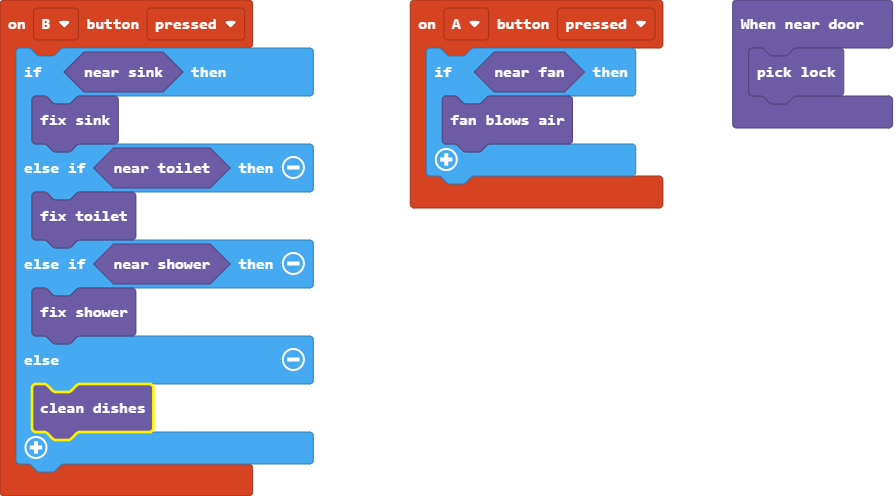
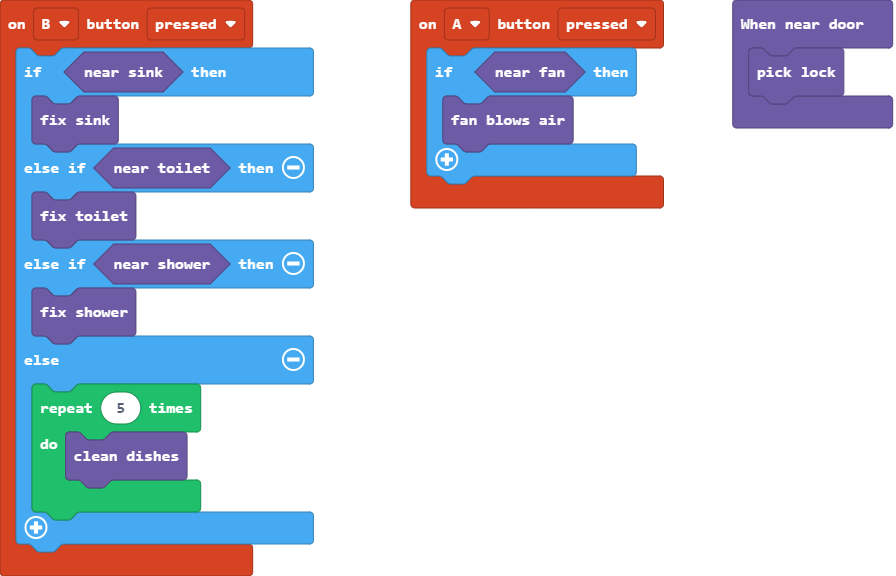
added kitchen to tutorial

diff --git a/extension.ts b/extension.ts
@@ -6,11 +6,13 @@ namespace SpriteKind {
     export const BrokenAppliance = SpriteKind.create()
 }
 
+//fan wind overlaps dustbunny
 sprites.onOverlap(SpriteKind.Projectile, SpriteKind.DustBunny, function (sprite, otherSprite) {
     otherSprite.setVelocity(0, 50)
     sprite.destroy()
 })
 
+//player overlaps dustbunny
 sprites.onOverlap(SpriteKind.Player, SpriteKind.DustBunny, function (sprite, otherSprite) {
     dustBunny.startEffect(effects.clouds)
     game.showLongText("Too much dust!", DialogLayout.Bottom)
@@ -18,6 +20,7 @@ sprites.onOverlap(SpriteKind.Player, SpriteKind.DustBunny, function (sprite, oth
     game.over(false)
 })
 
+//player moves from bedroom (room 1) to offic (room 2)
 scene.onOverlapTile(SpriteKind.Player, myTiles.tile11, function (sprite, location) {
     tiles.placeOnTile(thePlayer, tiles.getTileLocation(17, 5))
     createDustBunnies()
@@ -71,6 +74,8 @@ function createDustBunnies () {
     }
     tiles.replaceAllTiles(myTiles.tile10, myTiles.tile1)
 }
+
+//player moves from office (room 2) to bathroom (room 3)
 scene.onOverlapTile(SpriteKind.Player, myTiles.tile13, function (sprite, location) {
     tiles.placeOnTile(thePlayer, tiles.getTileLocation(33, 5))
     hoc.near_fan()
@@ -79,6 +84,7 @@ scene.onOverlapTile(SpriteKind.Player, myTiles.tile13, function (sprite, locatio
     showerIsFixed = false
 })
 
+//places mold on green tiles
 scene.onOverlapTile(SpriteKind.Player, myTiles.tile14, function (sprite, location) {
     tiles.placeOnTile(thePlayer, tiles.getTileLocation(48, 5))
     moldyAir()
@@ -109,10 +115,14 @@ function moldyAir () {
     }
     tiles.replaceAllTiles(myTiles.tile30, sprites.dungeon.floorLight0)
 }
+
+//makes mold bounce of wall
 scene.onHitWall(SpriteKind.Mold, function(sprite: Sprite, location: tiles.Location) {
     sprite.setVelocity(randint(-50, 50), randint(-50, 50))
     sprite.startEffect(effects.spray, 100)
 })
+
+// finish game, reach front door
 scene.onOverlapTile(SpriteKind.Player, img`
             . . . . . . . . . . . . . . . .
             . . . . . . . . . . . . . . . .
@@ -133,6 +143,7 @@ scene.onOverlapTile(SpriteKind.Player, img`
         `, function(sprite: Sprite, location: tiles.Location) {
     game.over(true)
 })
+
 // add intro, instructions
 let projectile: Sprite = null
 let fan: Sprite = null

diff --git a/name.ts b/name.ts
@@ -48,8 +48,8 @@ namespace hoc {
         }
     }
 
-    //%block="near sink"
-    export function near_sink (): boolean {
+    //%block="near bathroom sink"
+    export function near_bathroom_sink (): boolean {
         if (thePlayer.tileKindAt(TileDirection.Right, myTiles.tile7)) {
             //sinkIsFixed = true
             return true;
@@ -58,7 +58,7 @@ namespace hoc {
     }
     //%block="fix sink"
     export function fix_sink () {
-        if (near_sink()) {
+        if (near_bathroom_sink()) {
             for (let index = 0; index <= 6; index++) {
                 tiles.setWallAt(tiles.getTileLocation(35, index + 2), false)
                 tiles.setTileAt(tiles.getTileLocation(35, index + 2), sprites.dungeon.floorLight0)
@@ -102,12 +102,21 @@ namespace hoc {
             }
         }
     }
+    //%block="near kitchen sink"
+    export function near_kitchen_sink (): boolean {
+        if (thePlayer.tileKindAt(TileDirection.Top, myTiles.tile29)) {
+            return true;
+        }
+        return false;
+    }
     //%block="clean dishes"
     export function clean_dishes () {
-        if (thePlayer.tileKindAt(TileDirection.Top, myTiles.tile29)) {
-            effects.bubbles.startScreenEffect(200)
-            wash_dishes(1)
-            pause(200)
+        if (near_kitchen_sink()) {
+            if (thePlayer.tileKindAt(TileDirection.Top, myTiles.tile29)) {
+                effects.bubbles.startScreenEffect(200)
+                wash_dishes(1)
+                pause(200)
+            }
         }
     }
 }

diff --git a/main.ts b/main.ts
@@ -1,12 +1,14 @@
 controller.B.onEvent(ControllerButtonEvent.Pressed, function () {
-    if (hoc.near_sink()) {
+    if (hoc.near_bathroom_sink()) {
         hoc.fix_sink()
     } else if (hoc.near_toilet()) {
         hoc.fix_toilet()
     } else if (hoc.near_shower()) {
         hoc.fix_shower()
     } else {
-        hoc.clean_dishes()
+        for (let index = 0; index < 5; index++) {
+            hoc.clean_dishes()
+        }
     }
 })
 controller.A.onEvent(ControllerButtonEvent.Pressed, function () {

diff --git a/hocTutorial.md b/hocTutorial.md
@@ -11,6 +11,8 @@ controller.B.onEvent(ControllerButtonEvent.Pressed, function () {
     	
     } else if (true) {
     	
+    } else if (true) {
+    
     }
 })
 controller.A.onEvent(ControllerButtonEvent.Pressed, function () {
@@ -114,38 +116,44 @@ controller.B.onEvent(ControllerButtonEvent.Pressed, function () {
     	
     } else if (true) {
     	
+    } else if (true) {
+    
     }
 })
 ```
 ## Room 3, pt 2
-From the ``||Hoc:Hoc||`` Toolbox drawer, find the ``||Hoc:near sink||`` block and drop it in place of 
+From the ``||Hoc:Hoc||`` Toolbox drawer, find the ``||Hoc:near bathroom sink||`` block and drop it in place of 
 the **true** in the ``||logic:if then||`` block.
 
 ``` block
 controller.B.onEvent(ControllerButtonEvent.Pressed, function () {
-	if (near_sink) {
+	if (near_bathroom_sink) {
 
     } else if (true) {
     	
     } else if (true) {
     	
+    } else if (true) {
+    
     }
 })
 ```
 
 ## Room 3, pt 3
 From the same ``||Hoc:Hoc||`` drawer, find the ``||Hoc:fix sink||`` block and drag it into the 
-``||logic:if near sink then||`` block. Now, when the player is near the sink and pressed the 
+``||logic:if near_kitchen_sink then||`` block. Now, when the player is near the sink and pressed the 
 **B button** the code will fix the sink. Try it.
 
 ``` block
 controller.B.onEvent(ControllerButtonEvent.Pressed, function () {
-	if (near_sink) {
+	if (near_kitchen_sink) {
         hoc.fix_sink()
     } else if (true) {
     	
     } else if (true) {
     	
+    } else if (true) {
+    
     }
 })
 ```
@@ -156,16 +164,18 @@ Now, the code will fix the sink. Time to fix the toilet and shower! This is what
 
 ## Room 3, pt 5
 Open the ``||Hoc:Hoc||`` drawer and find the ``||Hoc:near toilet||`` block. Drag it next to the ``||logic:else if||``
-in the ``||logic:if near sink then||`` block.
+in the ``||logic:if near_kitchen_sink then||`` block.
 
 ``` block
 controller.B.onEvent(ControllerButtonEvent.Pressed, function () {
-    if (hoc.near_sink()) {
+    if (hoc.near__kitchen_sink()) {
         hoc.fix_sink()
     } else if (hoc.near_toilet()) {
     	
     } else if (true) {
     	
+    } else if (true) {
+    
     }
 })
 ```
@@ -179,12 +189,14 @@ toilet, the code will fix the toilet. Go ahead and try it out!
 
 ```block
 controller.B.onEvent(ControllerButtonEvent.Pressed, function () {
-    if (hoc.near_sink()) {
+    if (hoc.near_kitchen_sink()) {
         hoc.fix_sink()
     } else if (hoc.near_toilet()) {
     	hoc.fix_toilet()
     } else if (true) {
     	
+    } else if (true) {
+    
     }
 })
 ```
@@ -196,12 +208,14 @@ From the ``||Hoc:Hoc||`` drawer, find the ``||Hoc:near shower||`` block. Drag it
 
 ```block
 controller.B.onEvent(ControllerButtonEvent.Pressed, function () {
-    if (hoc.near_sink()) {
+    if (hoc.near_kitchen_sink()) {
         hoc.fix_sink()
     } else if (hoc.near_toilet()) {
     	hoc.fix_toilet()
     } else if (hoc.near_shower) {
     	
+    } else if (true) {
+    
     }
 })
 ```
@@ -215,12 +229,87 @@ shower, the code will fix the shower. It's time to finally stop all this floodin
 
 ```block
 controller.B.onEvent(ControllerButtonEvent.Pressed, function () {
-    if (hoc.near_sink()) {
+    if (hoc.near_kitchen_sink()) {
         hoc.fix_sink()
     } else if (hoc.near_toilet()) {
     	hoc.fix_toilet()
     } else if (hoc.near_shower) {
     	hoc.fix_shower()
+    } else if (true) {
+    
+    }
+})
+```
+
+## Room 4, kitchn @unplugged
+Yikes! There's a lot of mold floating around this kitchen. It seems to be coming
+from the dirty dishes in the sink. You'll need to scrub all the dishes before leaving
+or you'll be grounded!
+
+## Room 4, pt 1
+We can only clean the dishes when we're near the sink. Use the last ``||logic: else if||``
+to check if the player is near the kitchen sink. From ``||Hoc:Hoc||`` find 
+``||Hoc:near kitchen sink||`` and drag it into the last ``||logic: else if||`` slot.
+
+``` block
+controller.B.onEvent(ControllerButtonEvent.Pressed, function () {
+    if (hoc.near_kitchen_sink()) {
+        hoc.fix_sink()
+    } else if (hoc.near_toilet()) {
+    	hoc.fix_toilet()
+    } else if (hoc.near_shower) {
+    	hoc.fix_shower()
+    } else if (hoc.near__kitchen_sink) {
+    
+    }
+})
+```
+
+## Room 4, pt 2
+From ``||Hoc:Hoc||`` find ``||Hoc:clean dishes||`` and drag it inside the last 
+``||logic: else if||`` slot. Now, when the player is near the kitchen sink and
+the **B button** is pressed, the player will clean **1** dish.
+
+``` block
+controller.B.onEvent(ControllerButtonEvent.Pressed, function () {
+    if (hoc.near_kitchen_sink()) {
+        hoc.fix_sink()
+    } else if (hoc.near_toilet()) {
+    	hoc.fix_toilet()
+    } else if (hoc.near_shower) {
+    	hoc.fix_shower()
+    } else if (hoc.near__kitchen_sink) {
+        hoc.clean_dishes()
+    }
+})
+```
+
+## Room 4, pt 1 @fullscreen
+But, there are **5** dishes that need to be cleaned. That means we'll need to use 
+a **loop** to make sure all 5 dishes get cleaned.
+
+```
+Loops let you repeat a piece of code a certain number of times or until a certain 
+condition is met. 
+```
+
+## Room 4, pt 3
+From the ``||loops:loops||`` Toolbox drawer, find the ``||loops:repeat||`` block.
+Place this around the ``||Hoc: clean_dishes||`` block. Change the number to **5**.
+Now, you'll be able to clean all the dishes and leave the kitchen.
+
+``` block
+controller.B.onEvent(ControllerButtonEvent.Pressed, function () {
+    if (hoc.near_kitchen_sink()) {
+        hoc.fix_sink()
+    } else if (hoc.near_toilet()) {
+    	hoc.fix_toilet()
+    } else if (hoc.near_shower) {
+    	hoc.fix_shower()
+    } else if (hoc.near__kitchen_sink) {
+        for (let index = 0; index < 5; index++) {
+            hoc.clean_dishes()
+        }
     }
 })
 ```
